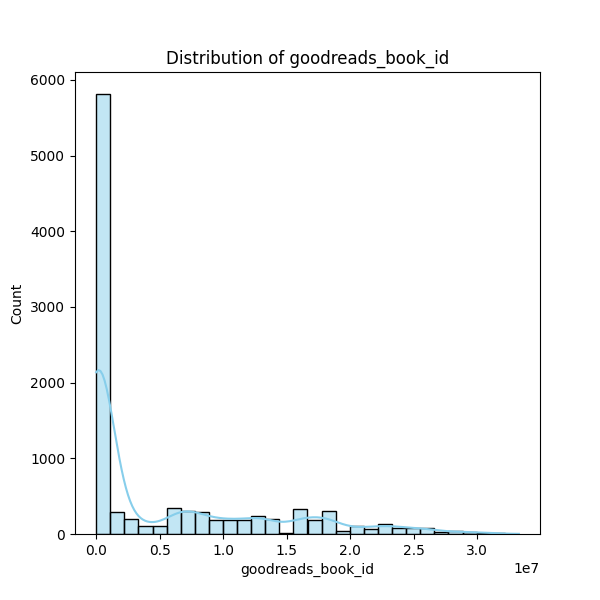
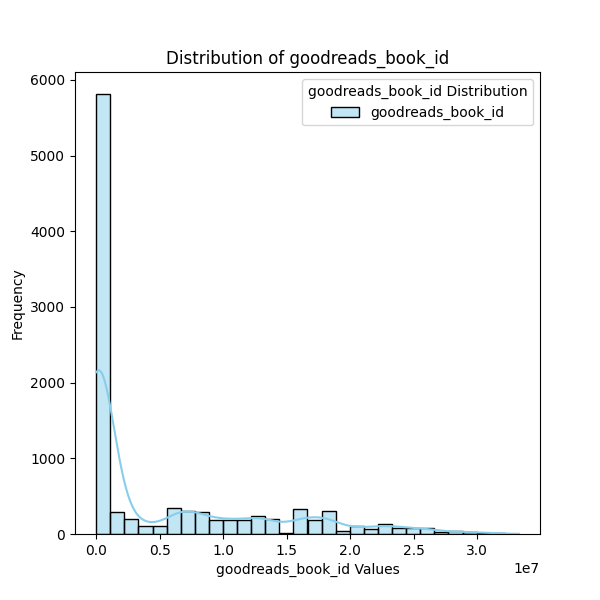
Updated code

Changed region(s): [[0.51, 0.12, 0.87, 0.21], [0.36, 0.93, 0.66, 0.96], [0.0, 0.45, 0.06, 0.57]]

diff --git a/autolysis.py b/autolysis.py
@@ -80,24 +80,27 @@ def visualize_data(df):
     if not numeric_cols.empty:
         plt.figure(figsize=(6, 6))  # Adjust dimensions to 512x512 px
         corr_matrix = numeric_cols.corr()
-        sns.heatmap(corr_matrix, annot=True, fmt=".2f", cmap="coolwarm")
-        heatmap_file = "correlation_heatmap.png"
+        sns.heatmap(corr_matrix, annot=True, fmt=".2f", cmap="coolwarm", cbar_kws={'label': 'Correlation coefficient'})
         plt.title("Correlation Heatmap")
-        plt.savefig(heatmap_file, dpi=100)
+        plt.savefig("correlation_heatmap.png", dpi=100)
         plt.close()
-        output_files.append(heatmap_file)
+        output_files.append("correlation_heatmap.png")
 
     # Distribution plots for up to 2 numeric columns
     for i, col in enumerate(numeric_cols.columns[:2]):
         plt.figure(figsize=(6, 6))  # Adjust dimensions to 512x512 px
-        sns.histplot(df[col], kde=True, bins=30, color="skyblue" if df[col].mean() > 0 else "salmon")
+        sns.histplot(df[col], kde=True, bins=30, color="skyblue" if df[col].mean() > 0 else "salmon", label=col)
         plt.title(f"Distribution of {col}")
+        plt.xlabel(f'{col} Values')
+        plt.ylabel('Frequency')
+        plt.legend(title=f"{col} Distribution", loc='upper right')
         dist_file = f"{col}_distribution.png"
         plt.savefig(dist_file, dpi=100)
         plt.close()
         output_files.append(dist_file)
 
     return output_files
+
 
 def query_llm(prompt, token, analysis_results=None):
     """Query the GPT-4o-Mini LLM via AI Proxy and return the response."""
